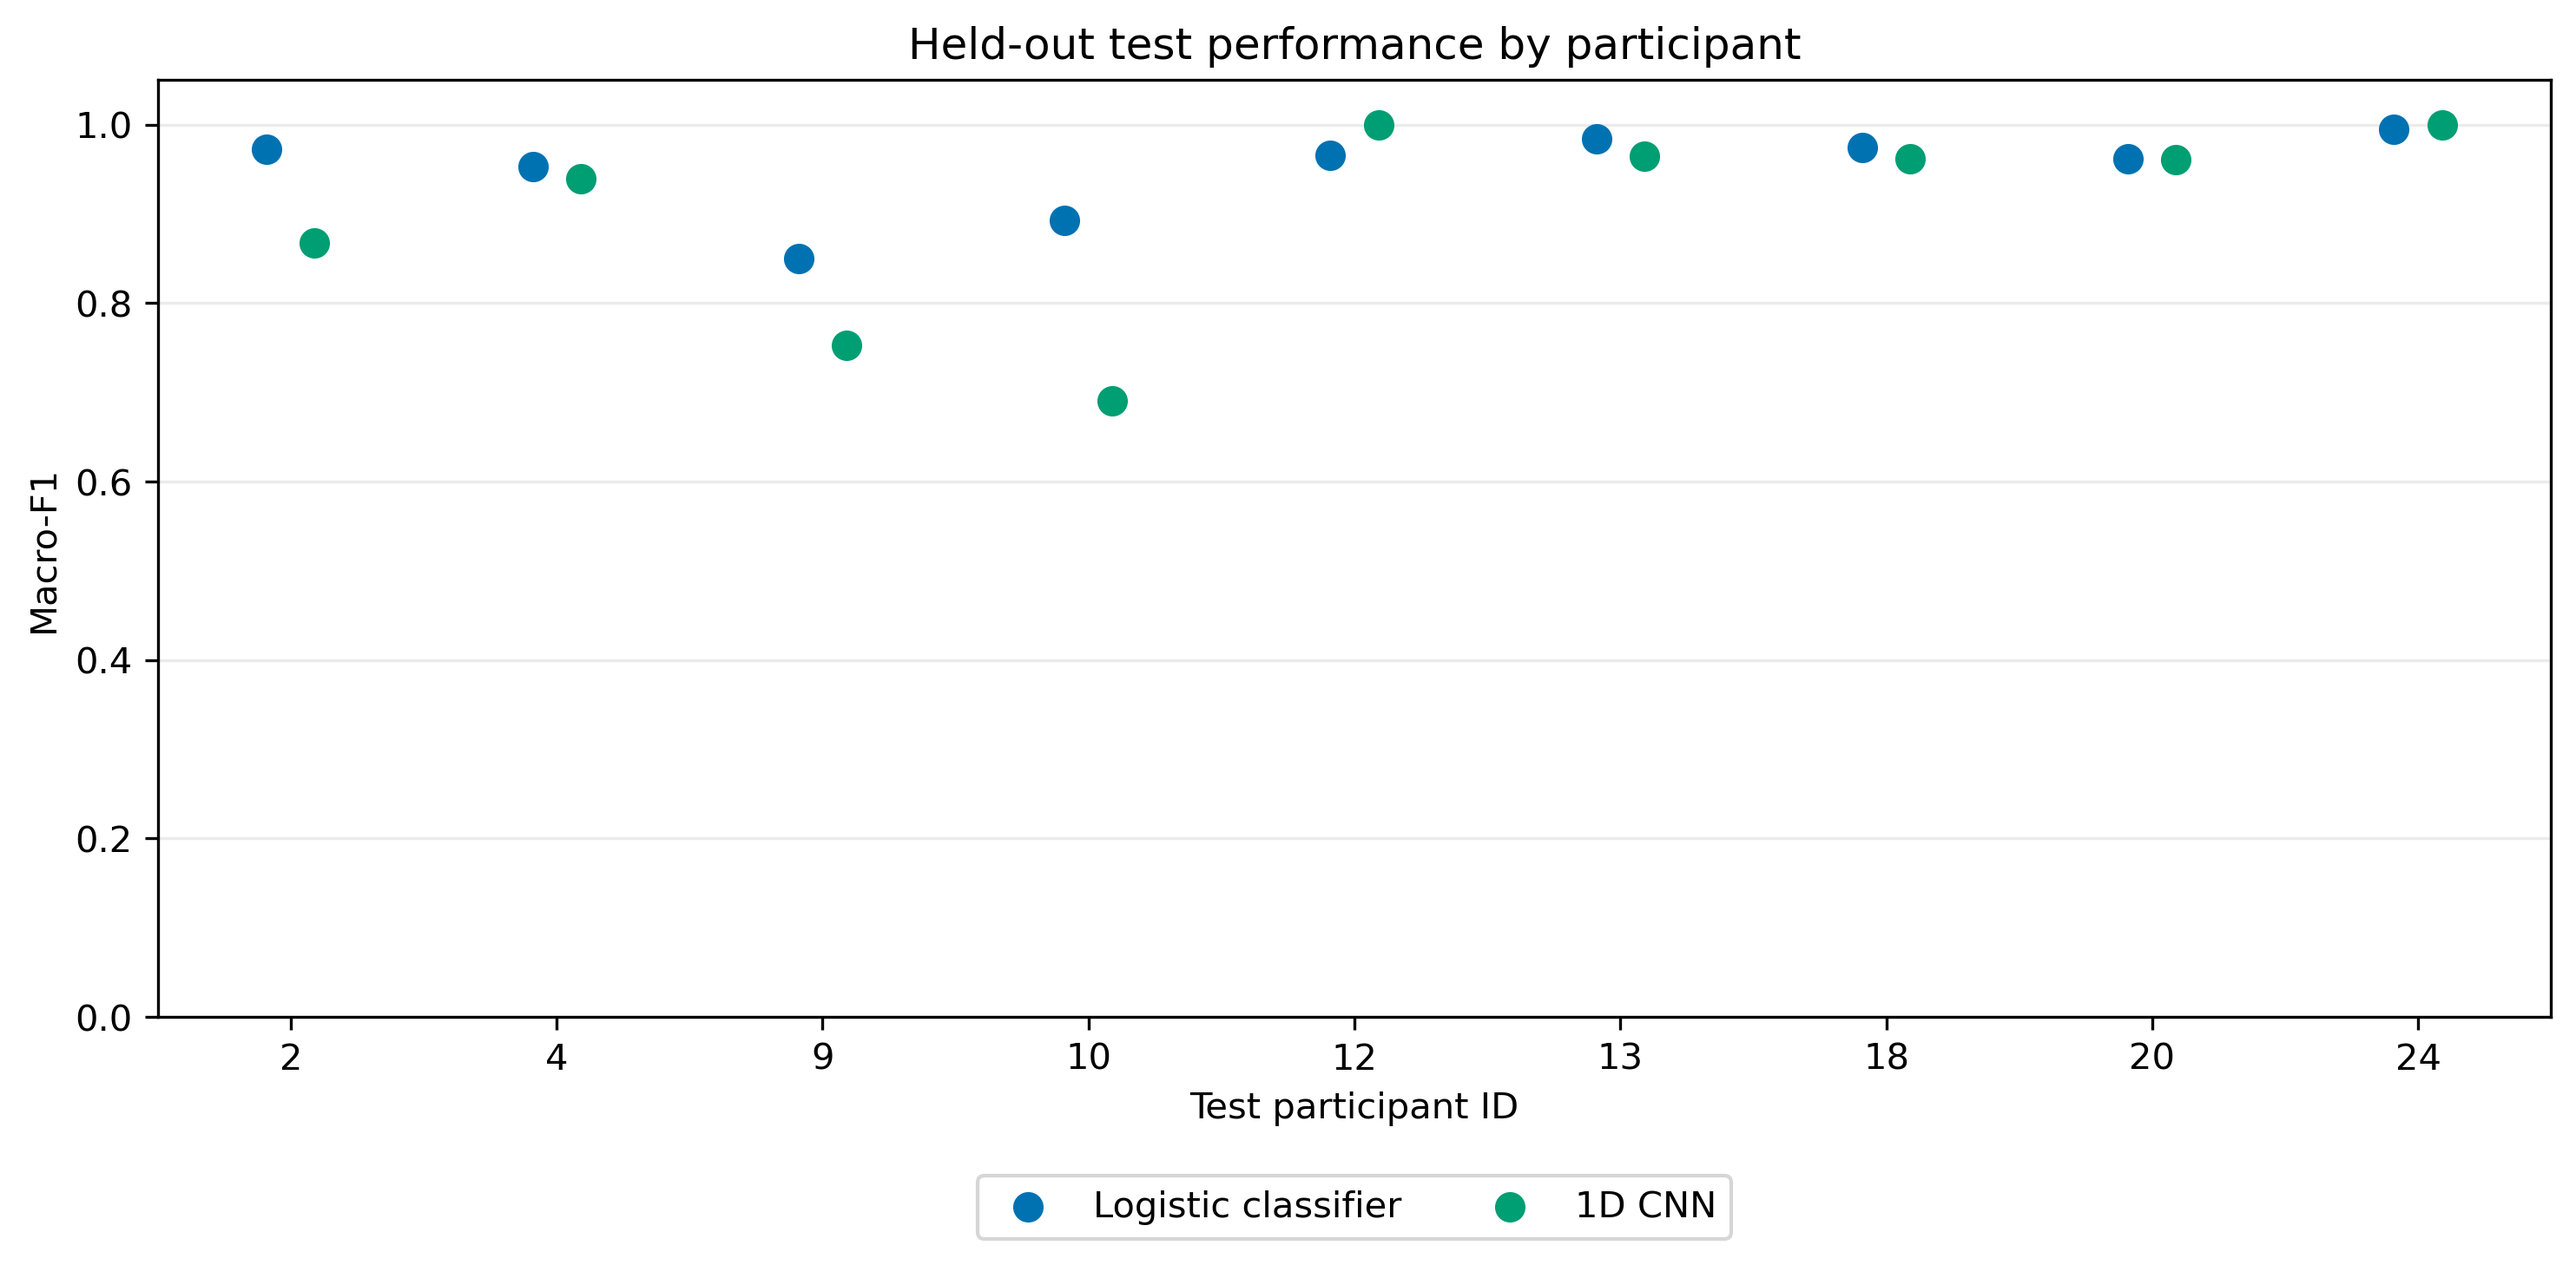
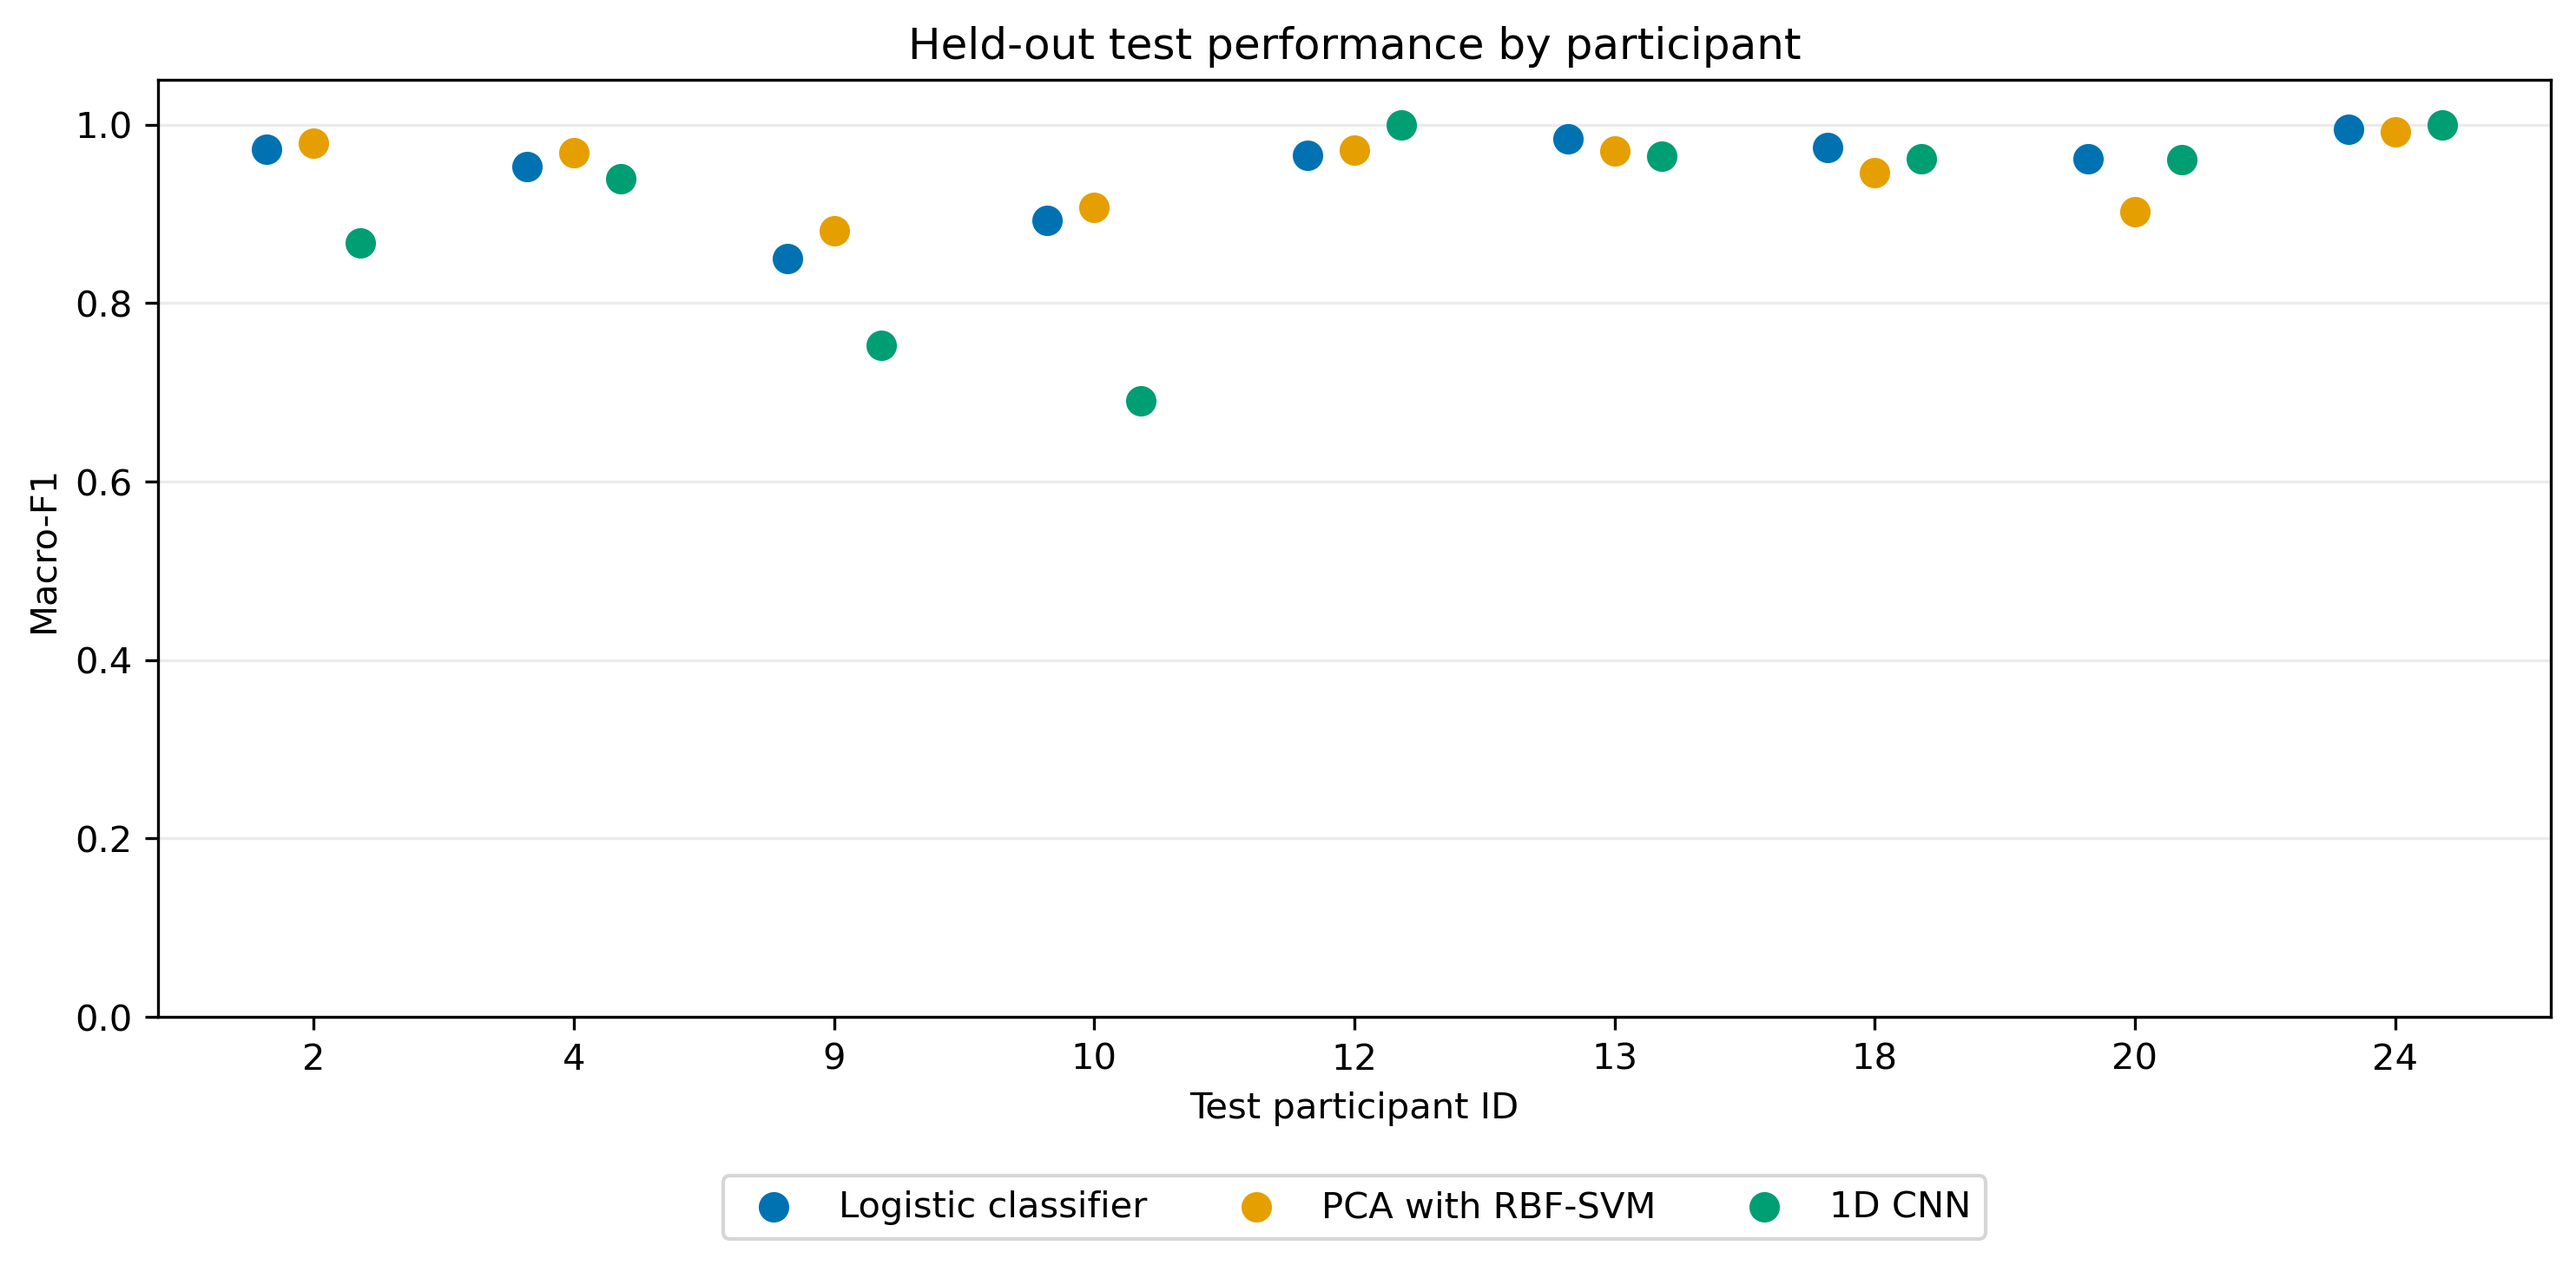
the results for all three methods were collected, some metrics calculated, and saved as csv files. Macros and per participant, under experiments/comparison

diff --git a/experiments/comparison/per_participant_macro_f1.md b/experiments/comparison/per_participant_macro_f1.md
@@ -1,11 +1,11 @@
 | Participant ID | Logistic classifier macro-F1 | PCA with RBF-SVM macro-F1 | 1D CNN macro-F1 |
 | --- | --- | --- | --- |
-| 2 | 0.9729 | — | 0.8678 |
-| 4 | 0.9533 | — | 0.9396 |
-| 9 | 0.8500 | — | 0.7524 |
-| 10 | 0.8925 | — | 0.6901 |
-| 12 | 0.9653 | — | 1.0000 |
-| 13 | 0.9841 | — | 0.9643 |
-| 18 | 0.9747 | — | 0.9621 |
-| 20 | 0.9615 | — | 0.9606 |
-| 24 | 0.9947 | — | 1.0000 |
+| 2 | 0.9729 | 0.9796 | 0.8678 |
+| 4 | 0.9533 | 0.9684 | 0.9396 |
+| 9 | 0.8500 | 0.8806 | 0.7524 |
+| 10 | 0.8925 | 0.9074 | 0.6901 |
+| 12 | 0.9653 | 0.9719 | 1.0000 |
+| 13 | 0.9841 | 0.9704 | 0.9643 |
+| 18 | 0.9747 | 0.9458 | 0.9621 |
+| 20 | 0.9615 | 0.9026 | 0.9606 |
+| 24 | 0.9947 | 0.9923 | 1.0000 |

diff --git a/experiments/comparison/overall_test_results.md b/experiments/comparison/overall_test_results.md
@@ -1,5 +1,5 @@
 | Method | Macro-F1 (primary) | Accuracy | Macro-precision | Macro-recall | Training time (s) | Prediction time (s) |
 | --- | --- | --- | --- | --- | --- | --- |
 | Logistic classifier | 0.9529 | 0.9522 | 0.9545 | 0.9518 | 14.90 | 0.00 |
-| PCA with RBF-SVM | — | — | — | — | — | — |
+| PCA with RBF-SVM | 0.9500 | 0.9508 | 0.9515 | 0.9492 | 0.65 | 0.57 |
 | 1D CNN | 0.9188 | 0.9182 | 0.9194 | 0.9195 | 10.22 | 0.42 |
